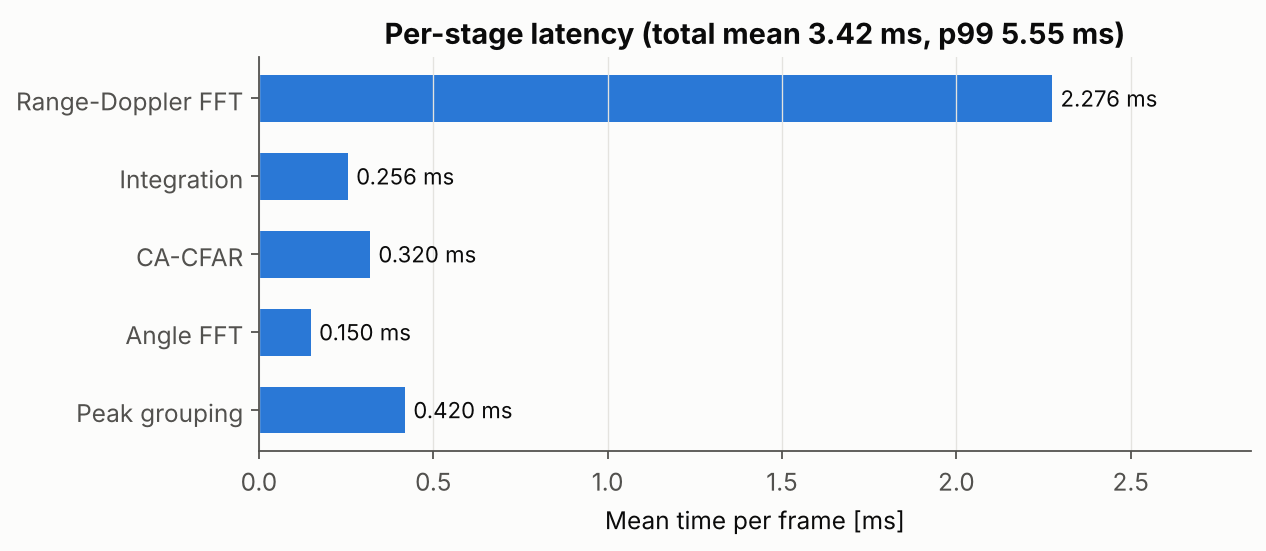
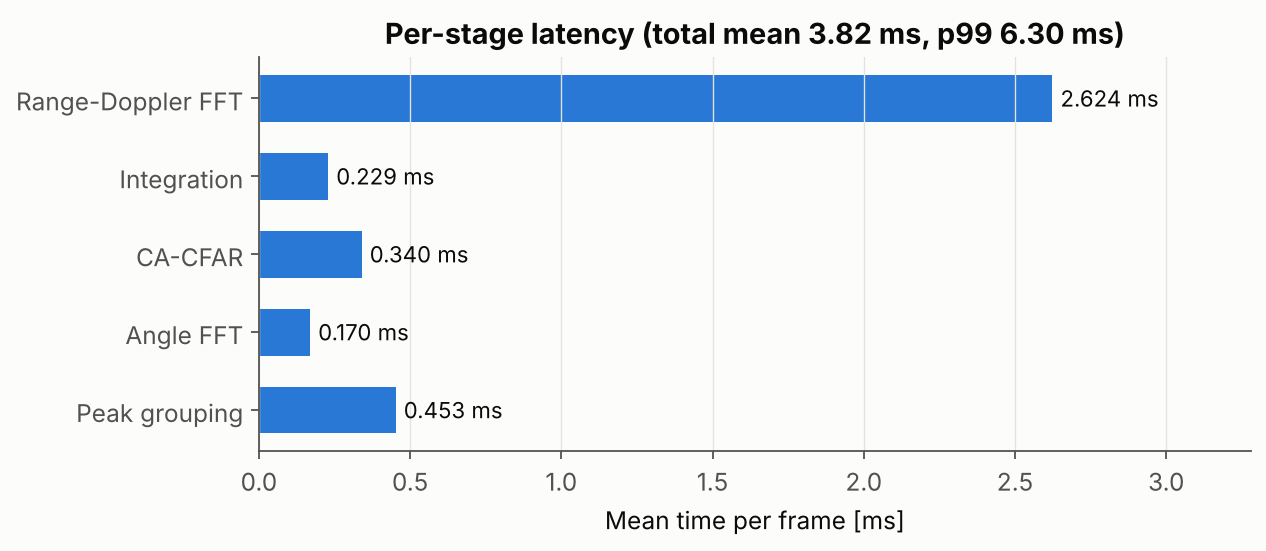
Refresh benchmark numbers in README

diff --git a/README.md b/README.md
@@ -15,8 +15,9 @@ simulator, unit tests, benchmarks and CI.
   integration over channels → 2D CA-CFAR → multi-peak angle FFT → 3D peak
   grouping → point cloud → DBSCAN clusters → EKF multi-object tracks with a
   class label.
-- **About 3 ms per frame** on one CPU core, for 256 samples × 128 chirps × 8
-  receive channels. That is under 6% of a 20 Hz frame budget.
+- **About 3–4 ms per frame** for the signal chain on one CPU core, for 256
+  samples × 128 chirps × 8 receive channels, plus about 0.3 ms for
+  clustering and tracking. That is under 10% of a 20 Hz frame budget.
 - **CFAR set by false-alarm rate.** The threshold multiplier is solved
   exactly for square-law detection with *K* integrated looks. You set a
   target Pfa, not a hand-tuned dB offset. A test checks that the measured
@@ -43,7 +44,7 @@ frames at 20 Hz:
 | Mean absolute range error | 0.11 m (bin size 1.0 m) |
 | Mean absolute velocity error | 0.02 m/s (bin size 1.09 m/s) |
 | Mean absolute azimuth error | 0.02° |
-| Latency, mean / p99 | ≈ 3 ms / ≈ 5 ms |
+| Latency, mean / p99 | ≈ 3.8 ms / ≈ 6.6 ms |
 
 ![Range-Doppler map](docs/images/range_doppler_map.png)
 
@@ -59,10 +60,11 @@ Google Benchmark, single thread, 4-core 2.8 GHz x86-64 VM, Release build:
 
 | Stage | Time |
 |---|---|
-| Range-Doppler FFT (8 × 128 × 256 complex) | 1.6 ms |
+| Range-Doppler FFT (8 × 128 × 256 complex) | 1.8 ms |
 | Non-coherent integration | 0.18 ms (was 0.49 ms before removing `std::norm` and strided writes) |
-| 2D CA-CFAR (32k cells) | 0.3 ms |
-| Full pipeline | 2.6 ms |
+| 2D CA-CFAR (32k cells) | 0.26 ms |
+| Angle FFTs, 3D peak grouping, beam refinement, noise floor | 0.6 ms |
+| Full pipeline | 3.1 ms |
 
 ## Radar configuration
 
